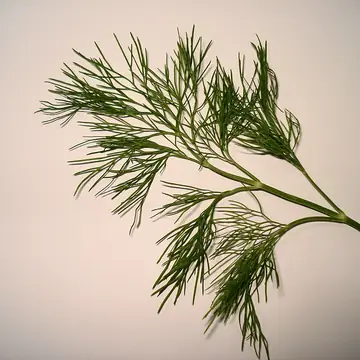
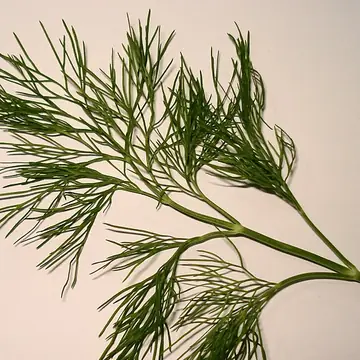
Frame every photo so the food is clearly visible in the round bowls
- Per-photo square crops focused on the food (carrots, sweet corn, dill,
  yogurt, harissa, sockeye); carrots now show the carrots, not the tops
- Photos are no longer covered by the bowl's shadow and glaze highlight
- Fix: wild sockeye add-on showed a smoked-salmon salad; now raw sockeye

Claude-Session: https://claude.ai/code/session_019gAyrF7HjvaLJSXDz3CMRE

diff --git a/db/seeds/photos.ts b/db/seeds/photos.ts
@@ -200,14 +200,14 @@ export const PHOTOS: Record<string, PhotoSeed> = {
     "height": 720
   },
   "carrots": {
-    "alt": "A bunch of carrots",
-    "title": "Vegetable-Carrot-Bundle-wStalks.jpg",
-    "author": "Evan-Amos",
-    "license": "Public domain",
-    "licenseUrl": "",
-    "sourceUrl": "https://commons.wikimedia.org/wiki/File:Vegetable-Carrot-Bundle-wStalks.jpg",
+    "alt": "Fresh carrots stacked at a market stall",
+    "title": "Carrot vegetables, April 2023.jpg",
+    "author": "Grace789",
+    "license": "CC BY-SA 4.0",
+    "licenseUrl": "https://creativecommons.org/licenses/by-sa/4.0",
+    "sourceUrl": "https://commons.wikimedia.org/wiki/File:Carrot_vegetables,_April_2023.jpg",
     "width": 960,
-    "height": 544
+    "height": 637
   },
   "beets": {
     "alt": "Beets in a basket",
@@ -561,13 +561,13 @@ export const PHOTOS: Record<string, PhotoSeed> = {
   },
   "wild-sockeye-fillet": {
     "alt": "Raw wild sockeye salmon, cut into a steak and fillets",
-    "title": "2023 December Lantzville, British Columbia Smoked Sockeye, Bean Medley, Olives & Hard Boiled Egg.jpg",
-    "author": "ArtLink2Fun",
-    "license": "CC BY-SA 4.0",
-    "licenseUrl": "https://creativecommons.org/licenses/by-sa/4.0",
-    "sourceUrl": "https://commons.wikimedia.org/wiki/File:2023_December_Lantzville,_British_Columbia_Smoked_Sockeye,_Bean_Medley,_Olives_%26_Hard_Boiled_Egg.jpg",
+    "title": "Oncorhynchus nerka (RFEIMG-0186).jpg",
+    "author": "The U.S. Food and Drug Administration",
+    "license": "Public domain",
+    "licenseUrl": "",
+    "sourceUrl": "https://commons.wikimedia.org/wiki/File:Oncorhynchus_nerka_(RFEIMG-0186).jpg",
     "width": 633,
-    "height": 432
+    "height": 438
   },
   "grass-fed-striploin": {
     "alt": "A raw striploin steak",

diff --git a/src/components/BowlArt.tsx b/src/components/BowlArt.tsx
@@ -218,8 +218,9 @@ export function BowlArt({ visual, seed, size = 120, label, className, photo }: {
           ? <image href={withBase(photo.srcSquare)} x={50 - PHOTO_R} y={50 - PHOTO_R} width={PHOTO_R * 2} height={PHOTO_R * 2} preserveAspectRatio="xMidYMid slice" />
           : texture(visual, rng)}
       </g>
-      <circle cx="50" cy="50" r="38.5" fill={`url(#w${id})`} />
-      <path d="M17 38 A 35 35 0 0 1 38 15.5" fill="none" stroke="#fff" strokeWidth="1.6" strokeLinecap="round" opacity="0.9" />
+      {/* Illustrations get the bowl's inner shadow and glaze highlight; photos stay unobstructed. */}
+      {!photo && <circle cx="50" cy="50" r="38.5" fill={`url(#w${id})`} />}
+      {!photo && <path d="M17 38 A 35 35 0 0 1 38 15.5" fill="none" stroke="#fff" strokeWidth="1.6" strokeLinecap="round" opacity="0.9" />}
     </svg>
   );
 }

diff --git a/scripts/photos/select.py b/scripts/photos/select.py
@@ -1,6 +1,11 @@
 import json, os, re, html
 from PIL import Image, ImageOps
-CROP={'sockeye-salmon':(0.17,0.24,0.83,0.84),'wild-sockeye-fillet':(0.17,0.24,0.83,0.84)}
+# Square crops for the round bowls, as fractions (left, top, right, bottom) of the
+# original photo, so the food itself fills the circle.
+SQ={'carrots':(0.23,0.40,0.76,0.80),'sweet-corn':(0.25,0.22,0.65,0.75),'dill':(0.30,0.05,0.85,0.78),
+    'greek-yogurt':(0.20,0.10,0.75,0.83),'harissa':(0.08,0.0,0.68,0.80),
+    'sockeye-salmon':(0.15,0.20,0.70,0.92),'wild-sockeye-fillet':(0.15,0.20,0.70,0.92)}
+CROP={'carrots':(0,0.36,1,0.86),'sockeye-salmon':(0.17,0.24,0.83,0.84),'wild-sockeye-fillet':(0.17,0.24,0.83,0.84)}
 S={ # slug: (run, index, alt)
 'chicken-thighs':('pc',0,'Raw boneless, skinless chicken thighs'),
 'chicken-breast':('pc',0,'Two raw boneless chicken breasts on a white plate'),
@@ -21,7 +26,7 @@ S={ # slug: (run, index, alt)
 'quinoa':('pc',1,'Uncooked white quinoa'),
 'potatoes':('pc2',8,'Raw potatoes'),
 'sweet-potatoes':('pc2',0,'A whole raw sweet potato'),
-'carrots':('pc2',9,'A bunch of carrots'),
+'carrots':('pc2',4,'Fresh carrots stacked at a market stall'),
 'beets':('pc2',0,'Beets in a basket'),
 'butternut-squash':('pc',0,'Peeled, cubed butternut squash'),
 'green-cabbage':('pc',0,'Shredded cabbage'),
@@ -58,7 +63,7 @@ S={ # slug: (run, index, alt)
 'cilantro':('pc',0,'A bunch of fresh cilantro'),
 'dill':('pc',2,'A sprig of fresh dill'),
 # add-ons
-'wild-sockeye-fillet':('pc4',3,'Raw wild sockeye salmon, cut into a steak and fillets'),
+'wild-sockeye-fillet':('pc4:sockeye-salmon',3,'Raw wild sockeye salmon, cut into a steak and fillets'),
 'grass-fed-striploin':('pc2',3,'A raw striploin steak'),
 'heritage-pork-belly':('pc',1,'A slab of pork belly'),
 'salsa-verde':('pc3',9,'Salsa verde spooned over grilled fish'),
@@ -79,17 +84,22 @@ S={ # slug: (run, index, alt)
 import sys
 out=sys.argv[1] if len(sys.argv)>1 else 'public/photos'; os.makedirs(out,exist_ok=True)
 credits={}
+def sq_source(slug,orig,im):
+    if slug not in SQ: return im
+    l,t,r,b=SQ[slug]; W,H=orig.size
+    return orig.crop((int(l*W),int(t*H),int(r*W),int(b*H)))
 for slug,(run,i,alt) in S.items():
     folder=slug
     if ':' in run: run,folder=run.split(':')
     meta=[m for m in json.load(open(f'{run}/photo-candidates/{folder}/meta.json')) if m['index']==i][0]
     im=ImageOps.exif_transpose(Image.open(f'{run}/photo-candidates/{folder}/{i}.jpg')).convert('RGB')
+    orig=im
     if slug in CROP:
         l,t,r,b=CROP[slug]; W,H=im.size; im=im.crop((int(l*W),int(t*H),int(r*W),int(b*H)))
     w,h=im.size
     big=im if w<=960 else im.resize((960,round(h*960/w)),Image.LANCZOS)
     big.save(f'{out}/{slug}.webp','WEBP',quality=74,method=6)
-    ImageOps.fit(im,(360,360),Image.LANCZOS).save(f'{out}/{slug}-sq.webp','WEBP',quality=72,method=6)
+    ImageOps.fit(sq_source(slug,orig,im),(360,360),Image.LANCZOS).save(f'{out}/{slug}-sq.webp','WEBP',quality=72,method=6)
     author=html.unescape(meta['author']); author=re.sub(r'\s+',' ',author).strip()
     credits[slug]={'alt':alt,'title':meta['title'].removeprefix('File:'),'author':author[:120],'license':meta['license'],
         'licenseUrl':meta['licenseUrl'] or '','sourceUrl':meta['descriptionUrl'],'width':big.size[0],'height':big.size[1]}
